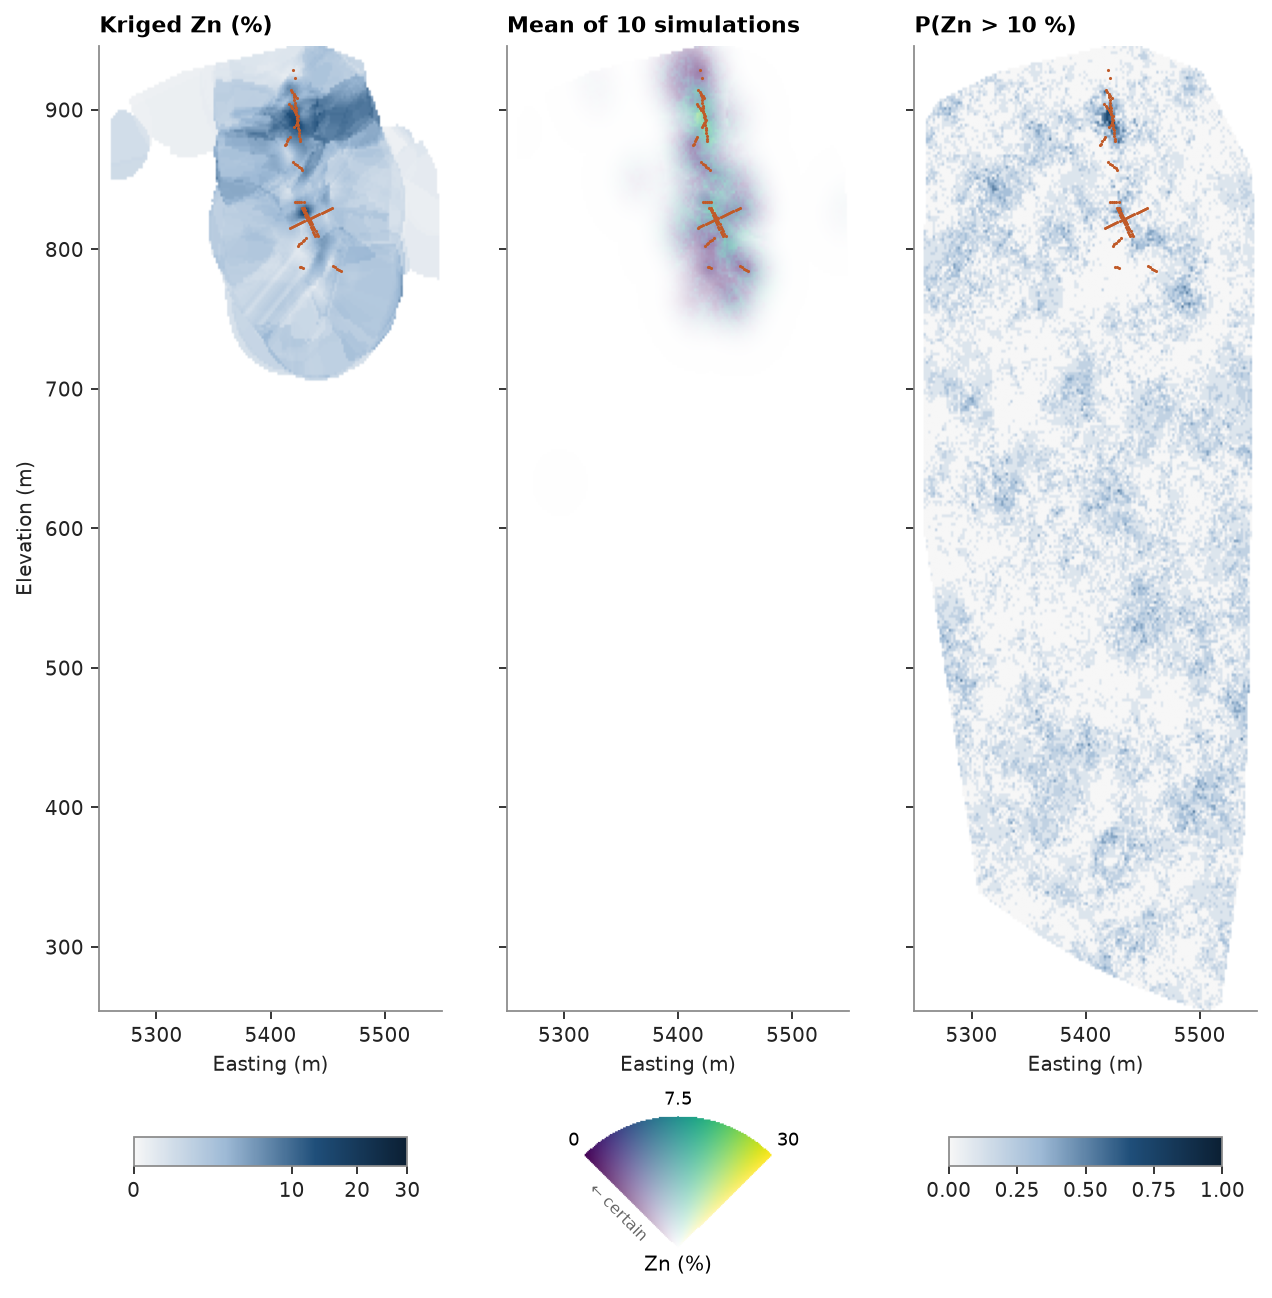
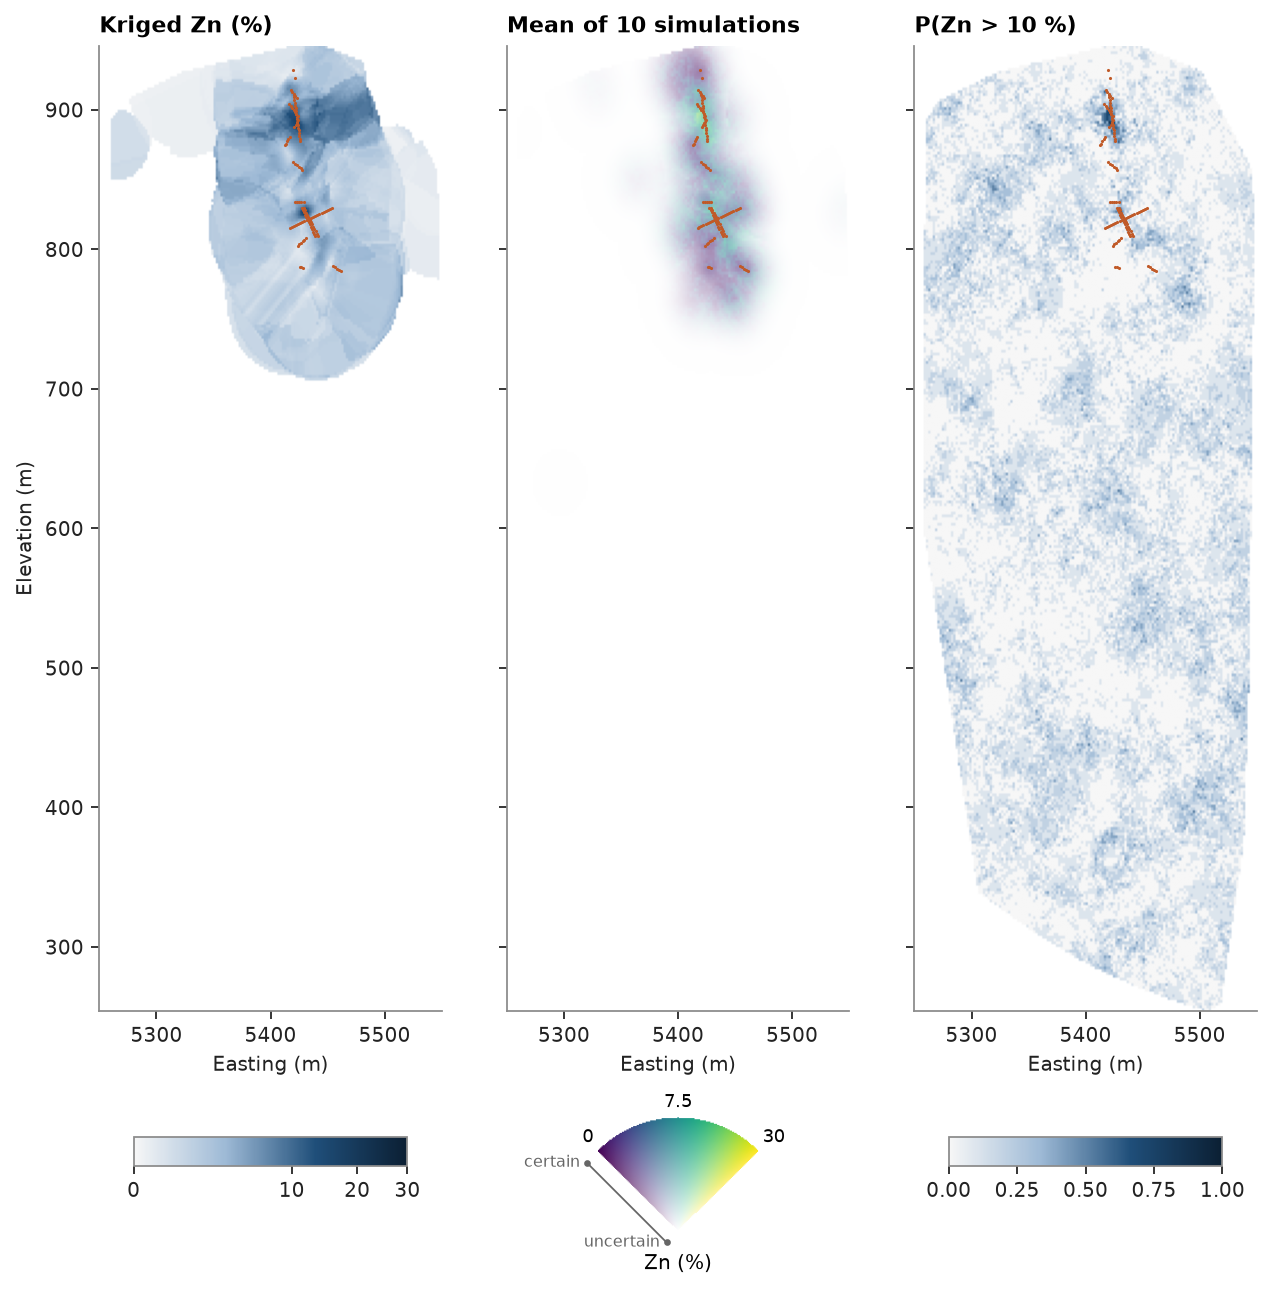
feat(plot): plot.uncertain slices block models like plot.section; radial certainty axis on the fan

Changed region(s): [[0.4292, 0.8629, 0.6439, 0.9861], [0.5212, 0.832, 0.5519, 0.8629]]

diff --git a/python/ceres/plot.py b/python/ceres/plot.py
@@ -169,30 +169,36 @@ def section(block_model, values, axis="z", index=None, colorbar=True, ax=None, *
         Passed to ``ax.imshow`` (e.g. ``cmap``, ``norm``, ``vmin``).
     """
     fig, ax = _axes(ax)
-    name = values if isinstance(values, str) else None
-    if name is None:
-        block_model = block_model.with_column("_values", values)
-        name = "_values"
+    (image,), extent = _slice(ax, block_model, [values], axis, index)
+    im = ax.imshow(image, origin="lower", extent=extent, **kwargs)
+    if colorbar:
+        fig.colorbar(im, ax=ax, shrink=0.8, label=values if isinstance(values, str) else None)
+    return fig, ax
+
+
+def _slice(ax, block_model, columns, axis, index):
+    names = []
+    for i, column in enumerate(columns):
+        if not isinstance(column, str):
+            block_model = block_model.with_column(f"_{i}", column)
+            column = f"_{i}"
+        names.append(column)
     grid = block_model.to_regular()
     nx, ny, nz = grid.count
-    cube = np.asarray(grid[name], dtype=float).reshape(nz, ny, nx)
     (x0, y0, z0), (sx, sy, sz) = grid.origin, grid.size
     x, y, z = (x0, x0 + nx * sx), (y0, y0 + ny * sy), (z0, z0 + nz * sz)
     k = {"x": 2, "y": 1, "z": 0}[axis]
-    index = cube.shape[k] // 2 if index is None else index
-    image = np.take(cube, index, axis=k)
+    index = (nz, ny, nx)[k] // 2 if index is None else index
+    images = [np.take(np.asarray(grid[n], dtype=float).reshape(nz, ny, nx), index, axis=k) for n in names]
     extent, labels = {
         "z": ((*x, *y), ("X", "Y")),
         "y": ((*x, *z), ("X", "Z")),
         "x": ((*y, *z), ("Y", "Z")),
     }[axis]
-    im = ax.imshow(image, origin="lower", extent=extent, **kwargs)
     ax.set_xlabel(labels[0])
     ax.set_ylabel(labels[1])
     ax.set_aspect("equal")
-    if colorbar:
-        fig.colorbar(im, ax=ax, shrink=0.8, label=None if name == "_values" else name)
-    return fig, ax
+    return images, extent
 
 
 def swath(swaths, labels=None, ax=None, **kwargs):
@@ -237,22 +243,39 @@ def _fade(values, uncertainty, cmap, norm):
 
 
 def uncertain(
-    values, uncertainty, extent=None, cmap="viridis", norm=None, label=None, legend_ax=None, ax=None
+    values,
+    uncertainty,
+    block_model=None,
+    axis="z",
+    index=None,
+    extent=None,
+    cmap="viridis",
+    norm=None,
+    label=None,
+    legend_ax=None,
+    ax=None,
 ):
     """Image whose colour gives a value and whose fading towards white gives how uncertain it is.
 
     The legend is a fan: the value runs across its angle, certainty along its radius, from white at the centre
-    (nothing known) to the full colour on the arc.
+    (uncertain) to the full colour on the arc (certain).
 
     Parameters
     ----------
-    values : array_like
-        2D image, e.g. the mean of the realizations on a section; NaN is left blank.
-    uncertainty : array_like
-        Same shape, from 0 (certain) to 1 (no information), e.g. the realizations' standard deviation over the
-        global one. Clipped to [0, 1].
+    values : str or array_like
+        2D image, e.g. the mean of the realizations on a section; NaN is left blank. With `block_model`, a column
+        name or one value per block.
+    uncertainty : str or array_like
+        Same shape as `values`, from 0 (certain) to 1 (no information), e.g. the realizations' standard deviation
+        over the global one. Clipped to [0, 1].
+    block_model : BlockModel, optional
+        Slice it as `section` does; missing blocks are left blank.
+    axis : {"x", "y", "z"}
+        With `block_model`, axis normal to the slice.
+    index : int, optional
+        With `block_model`, cell index along `axis` (default: the middle).
     extent : tuple of float, optional
-        Passed to ``ax.imshow``.
+        Passed to ``ax.imshow``; set from `block_model` when given.
     cmap : str or Colormap
     norm : Normalize, optional
         Maps values to [0, 1]; default spans their range.
@@ -264,6 +287,8 @@ def uncertain(
     import matplotlib as mpl
 
     fig, ax = _axes(ax)
+    if block_model is not None:
+        (values, uncertainty), extent = _slice(ax, block_model, [values, uncertainty], axis, index)
     values = np.asarray(values, dtype=float)
     cmap = mpl.colormaps[cmap] if isinstance(cmap, str) else cmap
     norm = norm or mpl.colors.Normalize(np.nanmin(values), np.nanmax(values))
@@ -282,9 +307,12 @@ def uncertain(
         fan.text(
             1.05 * np.cos(theta), 1.05 * np.sin(theta), f"{value:.3g}", ha=align, va="bottom", fontsize=8
         )
-    fan.text(-0.45, 0.27, "← certain", rotation=-45, ha="center", va="center", fontsize=7, color="0.4")
+    edge = np.array([[-0.1, -0.1], [-0.8, 0.6]])
+    fan.plot(*edge.T, color="0.4", lw=0.8, marker="o", ms=2)
+    for (x, y), text in zip(edge, ("uncertain", "certain"), strict=True):
+        fan.text(x - 0.06, y, text, ha="right", va="center", fontsize=7, color="0.4")
     if label:
-        fan.text(0, -0.05, label, ha="center", va="top", fontsize=9)
-    fan.set(xlim=(-1.2, 1.2), ylim=(-0.25, 1.2), aspect="equal")
+        fan.text(0, -0.2, label, ha="center", va="top", fontsize=9)
+    fan.set(xlim=(-1.5, 1.5), ylim=(-0.4, 1.2), aspect="equal")
     fan.axis("off")
     return fig, ax

diff --git a/examples/20-workflow/example_20.py b/examples/20-workflow/example_20.py
@@ -248,16 +248,11 @@ blocks = (
     .with_column("p_above_10", summary.probability_above[0])
     .with_column("class", np.select([classes == n for n in names], range(3)).astype(float))
 )
-row = int(np.bincount(blocks.index // count[0] % count[1]).argmax())
-regular = blocks.to_regular()
-on_row = {
-    name: regular[name].reshape(count[2], count[1], count[0])[:, row] for name in ("mean", "uncertainty")
-}
-extent = (origin[0], origin[0] + 5 * count[0], origin[2], origin[2] + 5 * count[2])
-k, i = np.nonzero(~np.isnan(on_row["mean"]))
-xlim = origin[0] + 5 * np.array([i.min() - 2, i.max() + 3])
-ylim = origin[2] + 5 * np.array([k.min() - 2, k.max() + 3])
-north = origin[1] + (row + 0.5) * 5
+rows = blocks.index // count[0] % count[1]
+row = int(np.bincount(rows).argmax())
+on_row = blocks.centroids[rows == row]
+xlim, ylim = ((on_row[:, j].min() - 12.5, on_row[:, j].max() + 12.5) for j in (0, 2))
+north = on_row[0, 1]
 on_section = np.abs(xyz[:, 1] - north) < 5
 
 fig = plt.figure(figsize=(11, 6.4), layout="constrained")
@@ -265,9 +260,11 @@ axes = fig.subplots(2, 4, height_ratios=[4, 1])
 grade = plt.Normalize(0, 25)
 cs.plot.section(blocks, "zn", axis="y", index=row, ax=axes[0, 0], colorbar=False, cmap="viridis", norm=grade)
 cs.plot.uncertain(
-    on_row["mean"],
-    on_row["uncertainty"],
-    extent=extent,
+    "mean",
+    "uncertainty",
+    block_model=blocks,
+    axis="y",
+    index=row,
     norm=grade,
     label="Zn (%)",
     legend_ax=axes[1, 1],

diff --git a/python/tests/test_plot.py b/python/tests/test_plot.py
@@ -65,3 +65,14 @@ def test_uncertain_fades_to_white():
     rgba = ax.images[0].get_array()
     np.testing.assert_allclose(rgba[0, 1, :3], 1.0)
     assert rgba[0, 0, :3].max() < 1 and rgba[1, 1, 3] == 0
+
+
+def test_uncertain_slices_a_masked_model():
+    bm = cs.BlockModel(origin=(0, 0, 0), size=(2, 2, 1), count=(4, 3, 2))
+    bm = bm.with_column("g", np.arange(24.0)).mask(np.arange(24) != 5)
+    uncertainty = np.where(bm.index == 6, 1.0, 0.0)
+    _, ax = cs.plot.uncertain("g", uncertainty, block_model=bm, axis="z", index=0)
+    rgba = ax.images[0].get_array()
+    assert rgba.shape == (3, 4, 4) and ax.images[0].get_extent() == [0, 8, 0, 6]
+    np.testing.assert_allclose(rgba[1, 2, :3], 1.0)
+    assert rgba[1, 1, 3] == 0 and rgba[1, 3, :3].max() < 1

diff --git a/examples/20-workflow/README.md b/examples/20-workflow/README.md
@@ -322,16 +322,11 @@ blocks = (
     .with_column("p_above_10", summary.probability_above[0])
     .with_column("class", np.select([classes == n for n in names], range(3)).astype(float))
 )
-row = int(np.bincount(blocks.index // count[0] % count[1]).argmax())
-regular = blocks.to_regular()
-on_row = {
-    name: regular[name].reshape(count[2], count[1], count[0])[:, row] for name in ("mean", "uncertainty")
-}
-extent = (origin[0], origin[0] + 5 * count[0], origin[2], origin[2] + 5 * count[2])
-k, i = np.nonzero(~np.isnan(on_row["mean"]))
-xlim = origin[0] + 5 * np.array([i.min() - 2, i.max() + 3])
-ylim = origin[2] + 5 * np.array([k.min() - 2, k.max() + 3])
-north = origin[1] + (row + 0.5) * 5
+rows = blocks.index // count[0] % count[1]
+row = int(np.bincount(rows).argmax())
+on_row = blocks.centroids[rows == row]
+xlim, ylim = ((on_row[:, j].min() - 12.5, on_row[:, j].max() + 12.5) for j in (0, 2))
+north = on_row[0, 1]
 on_section = np.abs(xyz[:, 1] - north) < 5
 
 fig = plt.figure(figsize=(11, 6.4), layout="constrained")
@@ -339,9 +334,11 @@ axes = fig.subplots(2, 4, height_ratios=[4, 1])
 grade = plt.Normalize(0, 25)
 cs.plot.section(blocks, "zn", axis="y", index=row, ax=axes[0, 0], colorbar=False, cmap="viridis", norm=grade)
 cs.plot.uncertain(
-    on_row["mean"],
-    on_row["uncertainty"],
-    extent=extent,
+    "mean",
+    "uncertainty",
+    block_model=blocks,
+    axis="y",
+    index=row,
     norm=grade,
     label="Zn (%)",
     legend_ax=axes[1, 1],
